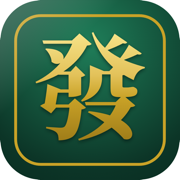
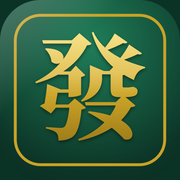
fix: 麻將頁圖示改用 mahjong-fa.png（透明圓角，原本四角是白的）

diff --git a/mahjongnow/en/how-to-play/index.html b/mahjongnow/en/how-to-play/index.html
@@ -23,7 +23,7 @@
       } catch (e) {}
     })();
   </script>
-  <!-- 麻將頁用 App 圖示（來源 core/ios/.../Icon-App-1024x1024@1x.png）；全站預設的 MyOpen 圖示在官網根目錄 -->
+  <!-- 麻將頁用 App 圖示（來源 core/assets/icon/mahjong-fa.png，透明圓角；不要用 iOS AppIcon，那份四角被填成白色）；全站預設的 MyOpen 圖示在官網根目錄 -->
   <link rel="icon" type="image/png" sizes="32x32" href="/mahjongnow/assets/web/icon-32.png">
   <link rel="icon" type="image/png" sizes="512x512" href="/mahjongnow/assets/web/icon-512.png">
   <link rel="apple-touch-icon" href="/mahjongnow/assets/web/icon-180.png">

diff --git a/mahjongnow/en/index.html b/mahjongnow/en/index.html
@@ -24,7 +24,7 @@
       } catch (e) {}
     })();
   </script>
-  <!-- 麻將頁用 App 圖示（來源 core/ios/.../Icon-App-1024x1024@1x.png）；全站預設的 MyOpen 圖示在官網根目錄 -->
+  <!-- 麻將頁用 App 圖示（來源 core/assets/icon/mahjong-fa.png，透明圓角；不要用 iOS AppIcon，那份四角被填成白色）；全站預設的 MyOpen 圖示在官網根目錄 -->
   <link rel="icon" type="image/png" sizes="32x32" href="/mahjongnow/assets/web/icon-32.png">
   <link rel="icon" type="image/png" sizes="512x512" href="/mahjongnow/assets/web/icon-512.png">
   <link rel="apple-touch-icon" href="/mahjongnow/assets/web/icon-180.png">

diff --git a/mahjongnow/en/tai/index.html b/mahjongnow/en/tai/index.html
@@ -24,7 +24,7 @@
       } catch (e) {}
     })();
   </script>
-  <!-- 麻將頁用 App 圖示（來源 core/ios/.../Icon-App-1024x1024@1x.png）；全站預設的 MyOpen 圖示在官網根目錄 -->
+  <!-- 麻將頁用 App 圖示（來源 core/assets/icon/mahjong-fa.png，透明圓角；不要用 iOS AppIcon，那份四角被填成白色）；全站預設的 MyOpen 圖示在官網根目錄 -->
   <link rel="icon" type="image/png" sizes="32x32" href="/mahjongnow/assets/web/icon-32.png">
   <link rel="icon" type="image/png" sizes="512x512" href="/mahjongnow/assets/web/icon-512.png">
   <link rel="apple-touch-icon" href="/mahjongnow/assets/web/icon-180.png">

diff --git a/mahjongnow/en/why-mahjong/index.html b/mahjongnow/en/why-mahjong/index.html
@@ -24,7 +24,7 @@
       } catch (e) {}
     })();
   </script>
-  <!-- 麻將頁用 App 圖示（來源 core/ios/.../Icon-App-1024x1024@1x.png）；全站預設的 MyOpen 圖示在官網根目錄 -->
+  <!-- 麻將頁用 App 圖示（來源 core/assets/icon/mahjong-fa.png，透明圓角；不要用 iOS AppIcon，那份四角被填成白色）；全站預設的 MyOpen 圖示在官網根目錄 -->
   <link rel="icon" type="image/png" sizes="32x32" href="/mahjongnow/assets/web/icon-32.png">
   <link rel="icon" type="image/png" sizes="512x512" href="/mahjongnow/assets/web/icon-512.png">
   <link rel="apple-touch-icon" href="/mahjongnow/assets/web/icon-180.png">

diff --git a/mahjongnow/index.html b/mahjongnow/index.html
@@ -20,7 +20,7 @@
       } catch (e) {}
     })();
   </script>
-  <!-- 麻將頁用 App 圖示（來源 core/ios/.../Icon-App-1024x1024@1x.png）；全站預設的 MyOpen 圖示在官網根目錄 -->
+  <!-- 麻將頁用 App 圖示（來源 core/assets/icon/mahjong-fa.png，透明圓角；不要用 iOS AppIcon，那份四角被填成白色）；全站預設的 MyOpen 圖示在官網根目錄 -->
   <link rel="icon" type="image/png" sizes="32x32" href="/mahjongnow/assets/web/icon-32.png">
   <link rel="icon" type="image/png" sizes="512x512" href="/mahjongnow/assets/web/icon-512.png">
   <link rel="apple-touch-icon" href="/mahjongnow/assets/web/icon-180.png">

diff --git a/mahjongnow/ja/index.html b/mahjongnow/ja/index.html
@@ -24,7 +24,7 @@
       } catch (e) {}
     })();
   </script>
-  <!-- 麻將頁用 App 圖示（來源 core/ios/.../Icon-App-1024x1024@1x.png）；全站預設的 MyOpen 圖示在官網根目錄 -->
+  <!-- 麻將頁用 App 圖示（來源 core/assets/icon/mahjong-fa.png，透明圓角；不要用 iOS AppIcon，那份四角被填成白色）；全站預設的 MyOpen 圖示在官網根目錄 -->
   <link rel="icon" type="image/png" sizes="32x32" href="/mahjongnow/assets/web/icon-32.png">
   <link rel="icon" type="image/png" sizes="512x512" href="/mahjongnow/assets/web/icon-512.png">
   <link rel="apple-touch-icon" href="/mahjongnow/assets/web/icon-180.png">

diff --git a/mahjongnow/ja/tai/index.html b/mahjongnow/ja/tai/index.html
@@ -24,7 +24,7 @@
       } catch (e) {}
     })();
   </script>
-  <!-- 麻將頁用 App 圖示（來源 core/ios/.../Icon-App-1024x1024@1x.png）；全站預設的 MyOpen 圖示在官網根目錄 -->
+  <!-- 麻將頁用 App 圖示（來源 core/assets/icon/mahjong-fa.png，透明圓角；不要用 iOS AppIcon，那份四角被填成白色）；全站預設的 MyOpen 圖示在官網根目錄 -->
   <link rel="icon" type="image/png" sizes="32x32" href="/mahjongnow/assets/web/icon-32.png">
   <link rel="icon" type="image/png" sizes="512x512" href="/mahjongnow/assets/web/icon-512.png">
   <link rel="apple-touch-icon" href="/mahjongnow/assets/web/icon-180.png">

diff --git a/mahjongnow/ja/why-mahjong/index.html b/mahjongnow/ja/why-mahjong/index.html
@@ -24,7 +24,7 @@
       } catch (e) {}
     })();
   </script>
-  <!-- 麻將頁用 App 圖示（來源 core/ios/.../Icon-App-1024x1024@1x.png）；全站預設的 MyOpen 圖示在官網根目錄 -->
+  <!-- 麻將頁用 App 圖示（來源 core/assets/icon/mahjong-fa.png，透明圓角；不要用 iOS AppIcon，那份四角被填成白色）；全站預設的 MyOpen 圖示在官網根目錄 -->
   <link rel="icon" type="image/png" sizes="32x32" href="/mahjongnow/assets/web/icon-32.png">
   <link rel="icon" type="image/png" sizes="512x512" href="/mahjongnow/assets/web/icon-512.png">
   <link rel="apple-touch-icon" href="/mahjongnow/assets/web/icon-180.png">

diff --git a/mahjongnow/zh-hant/how-to-play/index.html b/mahjongnow/zh-hant/how-to-play/index.html
@@ -23,7 +23,7 @@
       } catch (e) {}
     })();
   </script>
-  <!-- 麻將頁用 App 圖示（來源 core/ios/.../Icon-App-1024x1024@1x.png）；全站預設的 MyOpen 圖示在官網根目錄 -->
+  <!-- 麻將頁用 App 圖示（來源 core/assets/icon/mahjong-fa.png，透明圓角；不要用 iOS AppIcon，那份四角被填成白色）；全站預設的 MyOpen 圖示在官網根目錄 -->
   <link rel="icon" type="image/png" sizes="32x32" href="/mahjongnow/assets/web/icon-32.png">
   <link rel="icon" type="image/png" sizes="512x512" href="/mahjongnow/assets/web/icon-512.png">
   <link rel="apple-touch-icon" href="/mahjongnow/assets/web/icon-180.png">

diff --git a/mahjongnow/zh-hant/index.html b/mahjongnow/zh-hant/index.html
@@ -24,7 +24,7 @@
       } catch (e) {}
     })();
   </script>
-  <!-- 麻將頁用 App 圖示（來源 core/ios/.../Icon-App-1024x1024@1x.png）；全站預設的 MyOpen 圖示在官網根目錄 -->
+  <!-- 麻將頁用 App 圖示（來源 core/assets/icon/mahjong-fa.png，透明圓角；不要用 iOS AppIcon，那份四角被填成白色）；全站預設的 MyOpen 圖示在官網根目錄 -->
   <link rel="icon" type="image/png" sizes="32x32" href="/mahjongnow/assets/web/icon-32.png">
   <link rel="icon" type="image/png" sizes="512x512" href="/mahjongnow/assets/web/icon-512.png">
   <link rel="apple-touch-icon" href="/mahjongnow/assets/web/icon-180.png">

diff --git a/mahjongnow/zh-hant/tai/index.html b/mahjongnow/zh-hant/tai/index.html
@@ -24,7 +24,7 @@
       } catch (e) {}
     })();
   </script>
-  <!-- 麻將頁用 App 圖示（來源 core/ios/.../Icon-App-1024x1024@1x.png）；全站預設的 MyOpen 圖示在官網根目錄 -->
+  <!-- 麻將頁用 App 圖示（來源 core/assets/icon/mahjong-fa.png，透明圓角；不要用 iOS AppIcon，那份四角被填成白色）；全站預設的 MyOpen 圖示在官網根目錄 -->
   <link rel="icon" type="image/png" sizes="32x32" href="/mahjongnow/assets/web/icon-32.png">
   <link rel="icon" type="image/png" sizes="512x512" href="/mahjongnow/assets/web/icon-512.png">
   <link rel="apple-touch-icon" href="/mahjongnow/assets/web/icon-180.png">

diff --git a/mahjongnow/zh-hant/why-mahjong/index.html b/mahjongnow/zh-hant/why-mahjong/index.html
@@ -24,7 +24,7 @@
       } catch (e) {}
     })();
   </script>
-  <!-- 麻將頁用 App 圖示（來源 core/ios/.../Icon-App-1024x1024@1x.png）；全站預設的 MyOpen 圖示在官網根目錄 -->
+  <!-- 麻將頁用 App 圖示（來源 core/assets/icon/mahjong-fa.png，透明圓角；不要用 iOS AppIcon，那份四角被填成白色）；全站預設的 MyOpen 圖示在官網根目錄 -->
   <link rel="icon" type="image/png" sizes="32x32" href="/mahjongnow/assets/web/icon-32.png">
   <link rel="icon" type="image/png" sizes="512x512" href="/mahjongnow/assets/web/icon-512.png">
   <link rel="apple-touch-icon" href="/mahjongnow/assets/web/icon-180.png">
